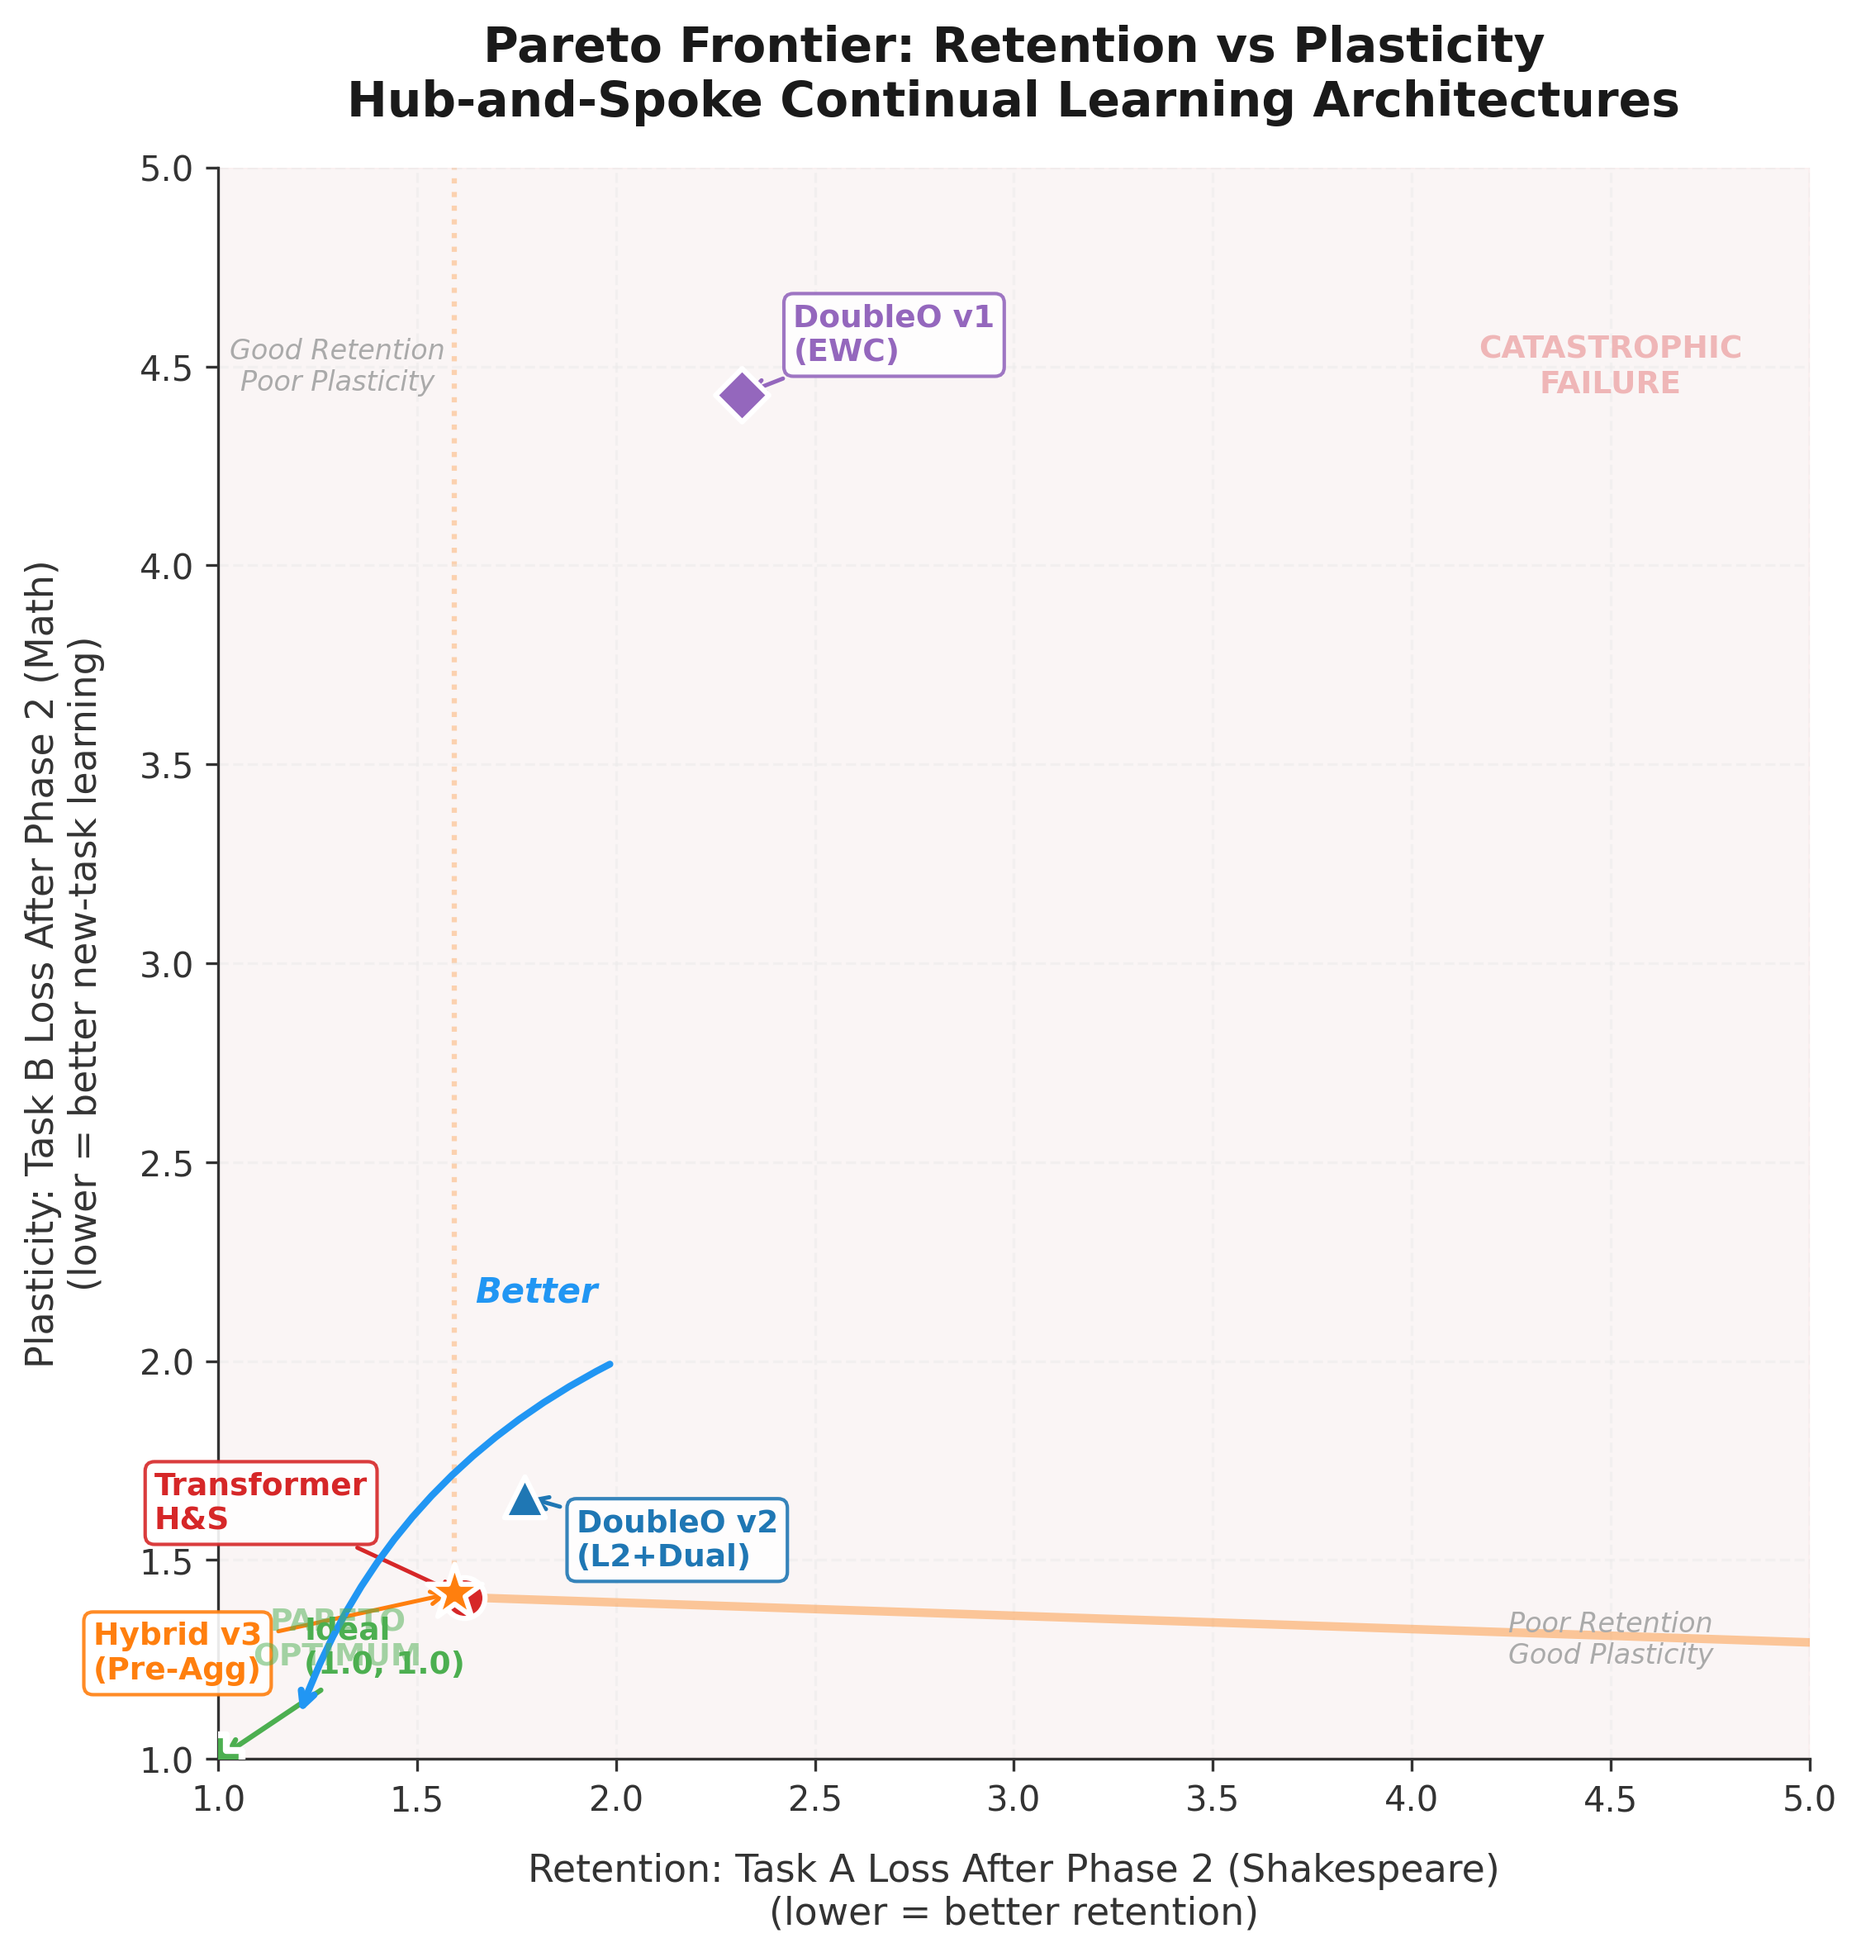
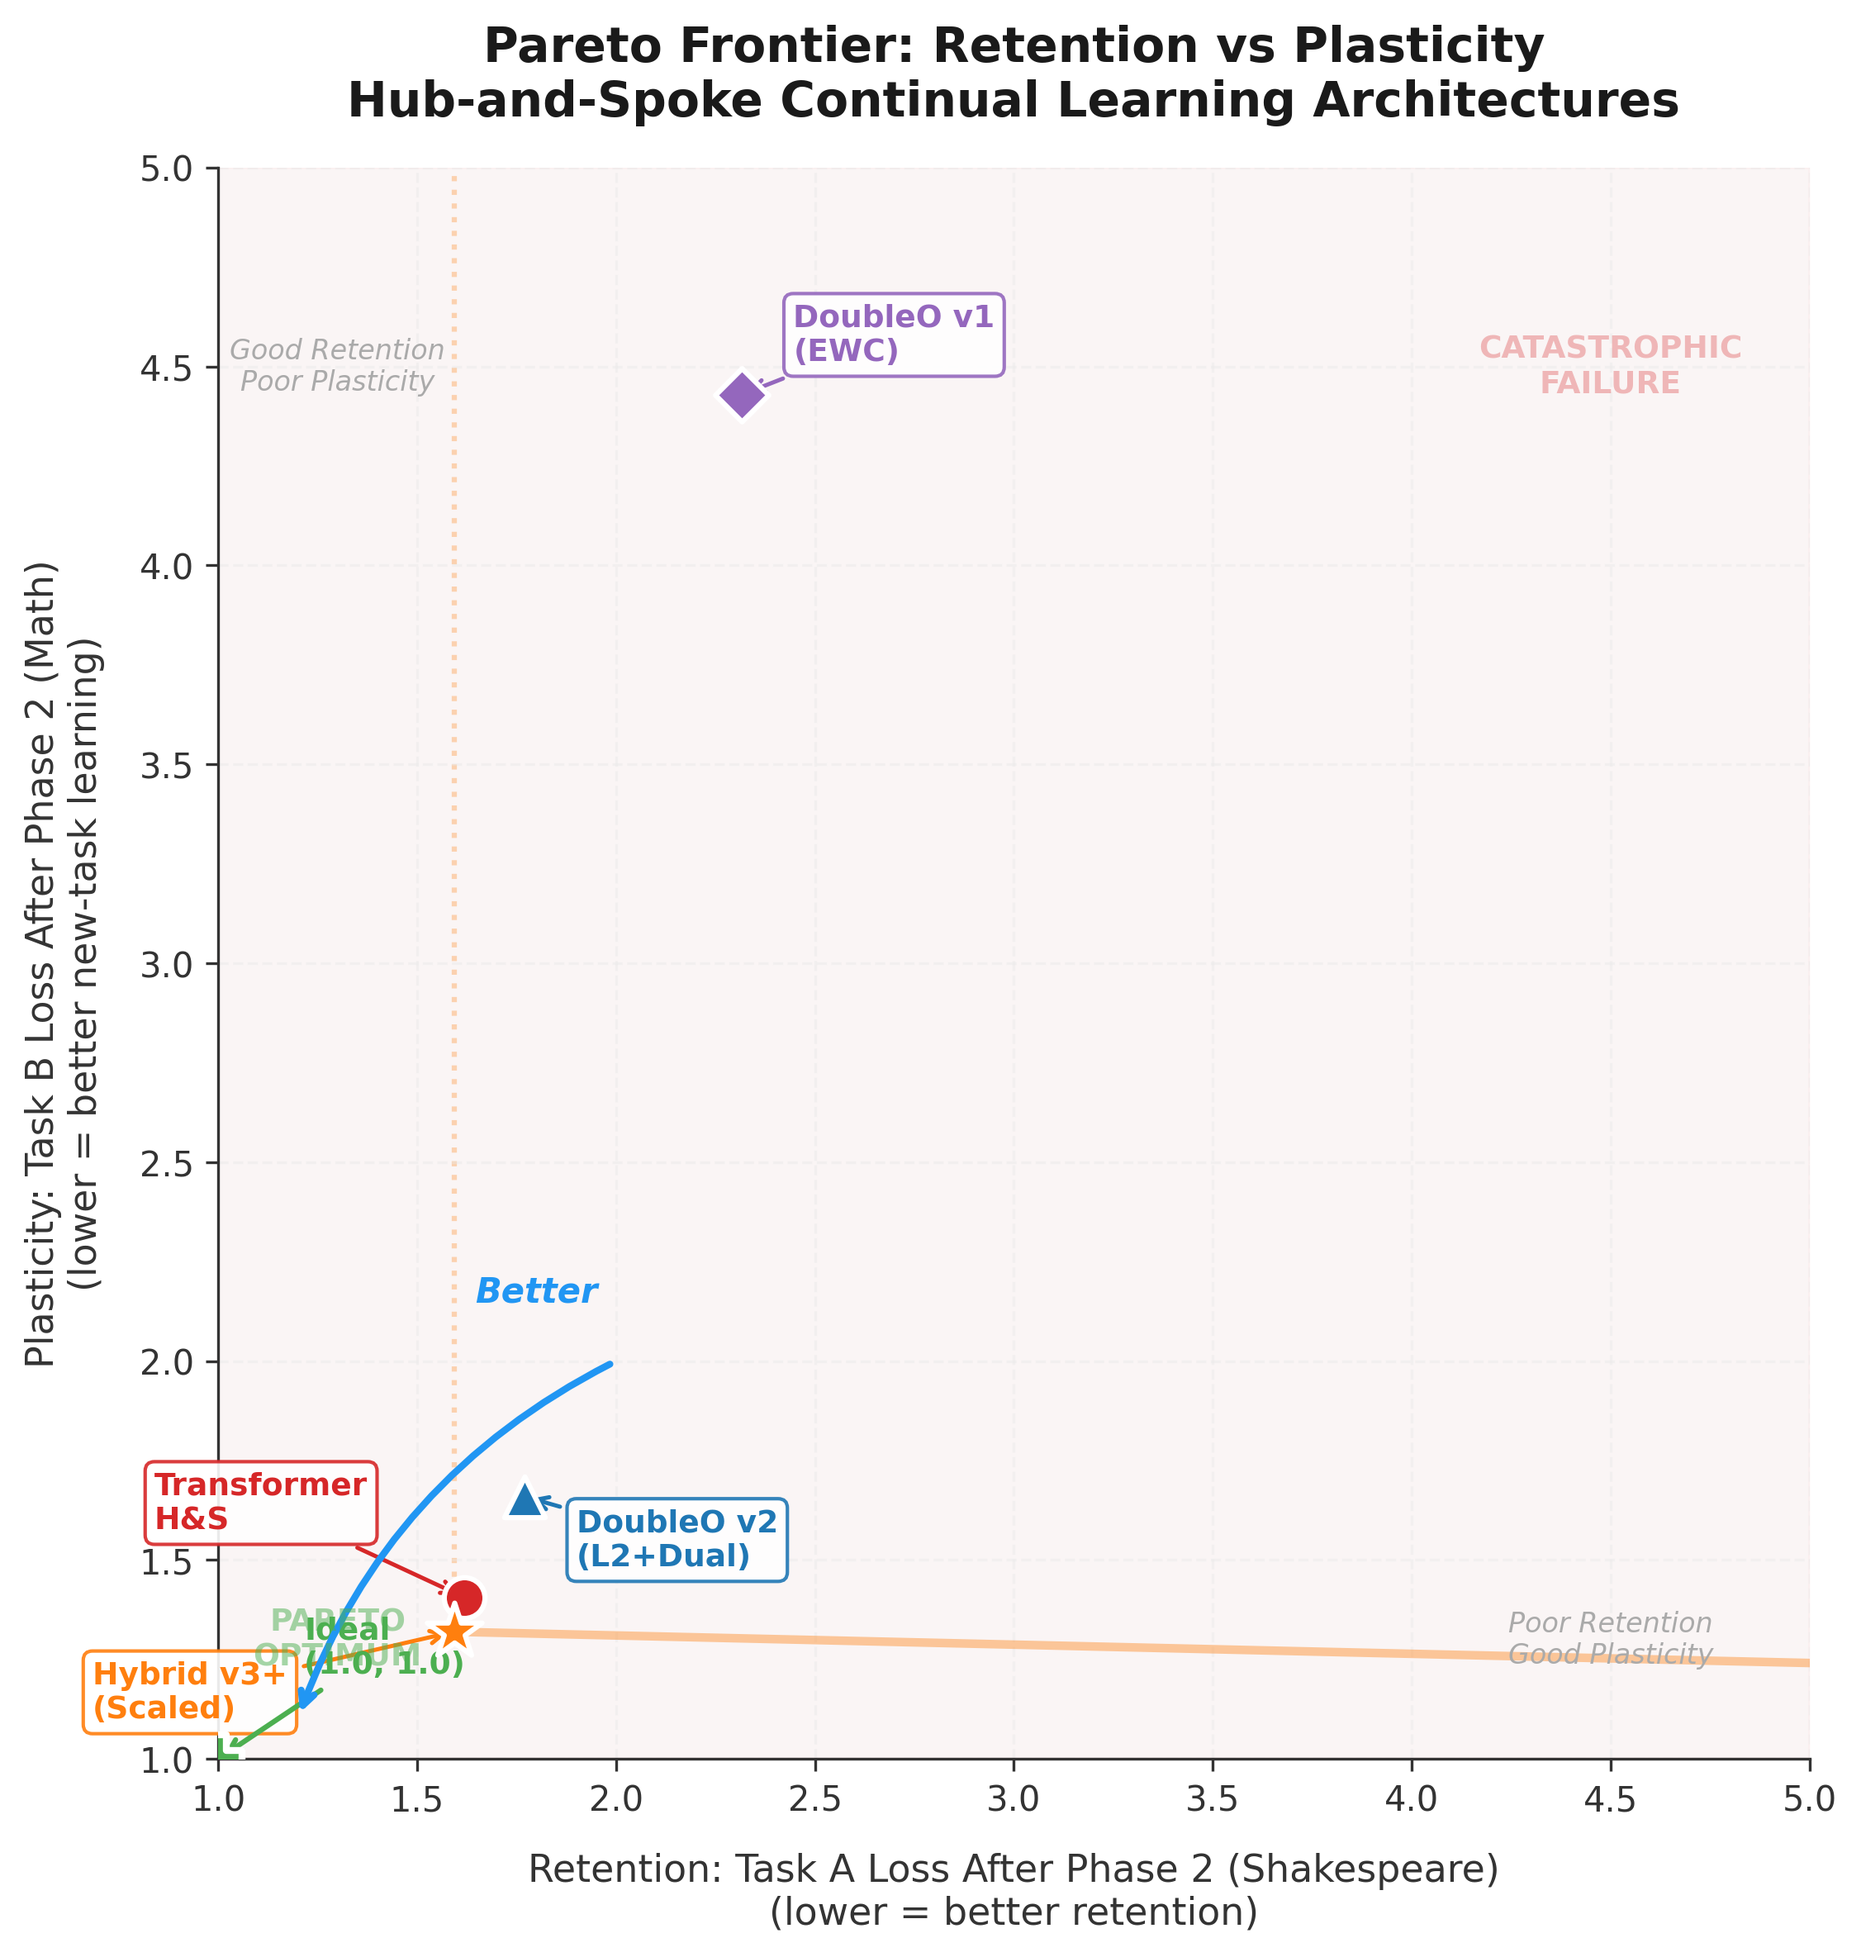
feat: Hybrid v3+ scaled (256d, 6L, cosine LR, 8k steps) — Shakespeare 1.59, Math 1.32

Changed region(s): [[0.1864, 0.8122, 0.9632, 0.8746], [0.0311, 0.8122, 0.1864, 0.9059]]

diff --git a/scripts/modal_hybrid.py b/scripts/modal_hybrid.py
@@ -183,18 +183,29 @@ def run_model_eval():
         return x.cuda(), y.cuda()
 
     class CustomConfig(GPTConfig):
-        spoke_layers: int = 4
+        spoke_layers: int = 6
 
-    config = CustomConfig(block_size=256, vocab_size=vocab_size, n_head=4, n_embd=128, dropout=0.0, bias=False)
+    config = CustomConfig(block_size=256, vocab_size=vocab_size, n_head=8, n_embd=256, dropout=0.0, bias=False)
     model = HybridDoubleO(vocab_size=vocab_size, config=config).cuda()
         
     params = sum(p.numel() for p in model.parameters())
     print(f"[Hybrid-v3] Initialized. Vocab: {vocab_size}, Params: {params}")
     
-    # --- Main optimizer (CEO + Spoke 1 + shared LM head) ---
+    # --- Cosine LR schedule with warmup ---
+    peak_lr = 3e-4
+    warmup_steps = 200
+    
+    def get_lr(step, total, peak=peak_lr, warmup=warmup_steps):
+        if step < warmup:
+            return peak * step / warmup
+        decay_ratio = (step - warmup) / max(1, total - warmup)
+        return peak * 0.5 * (1.0 + np.cos(np.pi * decay_ratio))
+    
+    import numpy as np
+    
     optimizer_main = torch.optim.AdamW(
         [p for n, p in model.named_parameters() if "_2" not in n and p.requires_grad],
-        lr=1e-3, weight_decay=0.1
+        lr=peak_lr, weight_decay=0.1
     )
     optimizer_spoke2 = None
     
@@ -203,8 +214,8 @@ def run_model_eval():
         "val_B": []
     }
     
-    STEPS_PHASE_1 = 2000
-    STEPS_PHASE_2 = 2000
+    STEPS_PHASE_1 = 4000
+    STEPS_PHASE_2 = 4000
     TOTAL_STEPS = STEPS_PHASE_1 + STEPS_PHASE_2
     
     ceo_anchor = None
@@ -234,12 +245,12 @@ def run_model_eval():
                     param.requires_grad = True
             
             spoke2_params = [p for n, p in model.named_parameters() if "_2" in n and p.requires_grad]
-            optimizer_spoke2 = torch.optim.AdamW(spoke2_params, lr=1e-3, weight_decay=0.1)
+            optimizer_spoke2 = torch.optim.AdamW(spoke2_params, lr=peak_lr, weight_decay=0.1)
             
-            # Rebuild main optimizer (CEO + shared LM head, no spoke_1)
+            # Rebuild main optimizer (CEO only now)
             optimizer_main = torch.optim.AdamW(
                 [p for n, p in model.named_parameters() if "_2" not in n and "_1" not in n and p.requires_grad],
-                lr=1e-3, weight_decay=0.1
+                lr=peak_lr, weight_decay=0.1
             )
             print(f"[Hybrid-v3] Frozen Spoke 1 ({frozen_count} params). Phase 2 starting.\n")
         
@@ -258,6 +269,10 @@ def run_model_eval():
         aux_loss = 0.1 * ((w_mean[aux_target] - 1.0) ** 2)
         
         if current_task == 'A':
+            # Cosine LR for Phase 1
+            lr = get_lr(step, STEPS_PHASE_1)
+            for pg in optimizer_main.param_groups: pg['lr'] = lr
+            
             loss = ce_loss + aux_loss
             optimizer_main.zero_grad(set_to_none=True)
             loss.backward()
@@ -266,7 +281,11 @@ def run_model_eval():
         else:
             # Phase 2: Two separate forward passes to avoid in-place grad conflicts
             
-            # Pass 1: Train Spoke 2 directly on Math
+            # Pass 1: Train Spoke 2 directly on Math (cosine LR for Phase 2)
+            p2_step = step - STEPS_PHASE_1
+            lr = get_lr(p2_step, STEPS_PHASE_2)
+            for pg in optimizer_spoke2.param_groups: pg['lr'] = lr
+            
             spoke2_loss = F.cross_entropy(logits_2.view(-1, logits_2.size(-1)), y.view(-1))
             optimizer_spoke2.zero_grad(set_to_none=True)
             spoke2_loss.backward()
@@ -296,7 +315,7 @@ def run_model_eval():
             torch.nn.utils.clip_grad_norm_([p for n, p in model.named_parameters() if p.requires_grad and "_2" not in n], 1.0)
             optimizer_main.step()
         
-        if step % 50 == 0 or step == (TOTAL_STEPS-1):
+        if step % 100 == 0 or step == (TOTAL_STEPS-1):
             model.eval()
             with torch.no_grad():
                 vx_A, vy_A = get_batch('val', task='A')

diff --git a/scripts/generate_pareto.py b/scripts/generate_pareto.py
@@ -29,28 +29,28 @@ def get_loss(metrics_list, target_step):
 # ============================================================
 architectures = {
     "NanoGPT\n(Baseline)": {
-        "retention": get_loss(nano['val_A'], 3999),
-        "plasticity": get_loss(nano['val_B'], 3999),
+        "retention": nano['val_A'][-1][1],
+        "plasticity": nano['val_B'][-1][1],
         "color": "#888888", "marker": "s", "size": 120,
     },
     "DoubleO v1\n(EWC)": {
-        "retention": get_loss(doov1['val_A'], 3999),
-        "plasticity": get_loss(doov1['val_B'], 3999),
+        "retention": doov1['val_A'][-1][1],
+        "plasticity": doov1['val_B'][-1][1],
         "color": "#9467bd", "marker": "D", "size": 120,
     },
     "DoubleO v2\n(L2+Dual)": {
-        "retention": get_loss(doov2['val_A'], 3999),
-        "plasticity": get_loss(doov2['val_B'], 3999),
+        "retention": doov2['val_A'][-1][1],
+        "plasticity": doov2['val_B'][-1][1],
         "color": "#1f77b4", "marker": "^", "size": 140,
     },
     "Transformer\nH&S": {
-        "retention": get_loss(tmoe['val_A'], 3999),
-        "plasticity": get_loss(tmoe['val_B'], 3999),
+        "retention": tmoe['val_A'][-1][1],
+        "plasticity": tmoe['val_B'][-1][1],
         "color": "#d62728", "marker": "o", "size": 140,
     },
-    "Hybrid v3\n(Pre-Agg)": {
-        "retention": get_loss(hybrid['val_A'], 3999),
-        "plasticity": get_loss(hybrid['val_B'], 3999),
+    "Hybrid v3+\n(Scaled)": {
+        "retention": hybrid['val_A'][-1][1],
+        "plasticity": hybrid['val_B'][-1][1],
         "color": "#ff7f0e", "marker": "*", "size": 280,
     },
 }
@@ -89,7 +89,7 @@ label_offsets = {
     "DoubleO v1\n(EWC)": (15, 10),
     "DoubleO v2\n(L2+Dual)": (15, -20),
     "Transformer\nH&S": (-90, 20),
-    "Hybrid v3\n(Pre-Agg)": (-105, -25),
+    "Hybrid v3+\n(Scaled)": (-105, -25),
 }
 
 for name, d in architectures.items():
